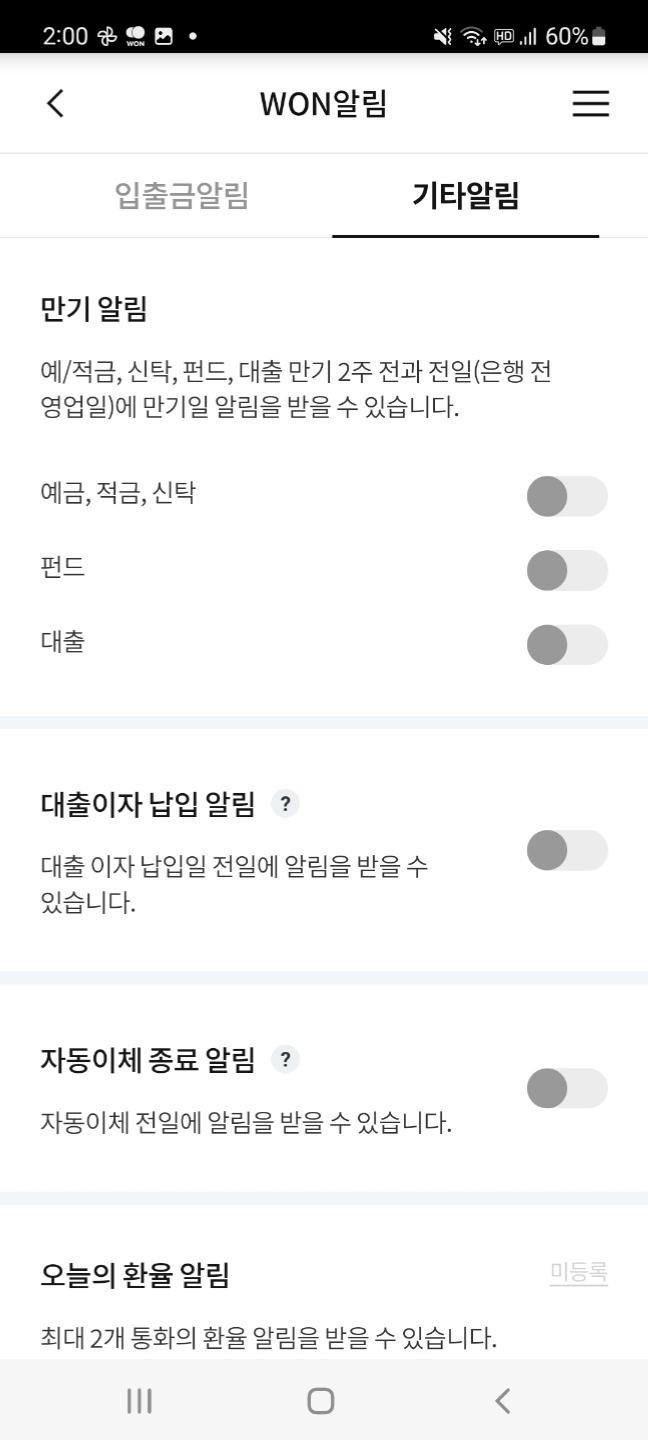
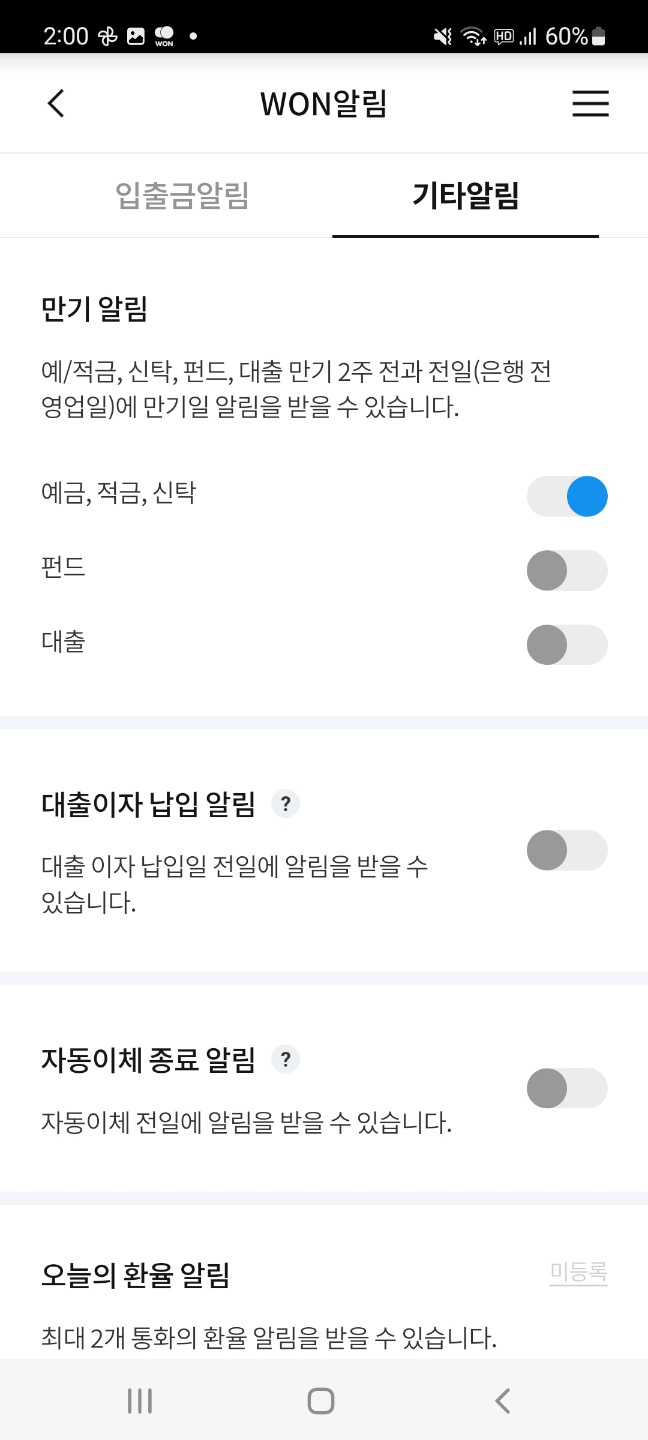
221205
수정

diff --git a/52/52/js/information.js b/52/52/js/information.js
@@ -1,4 +1,4 @@
-const pageNum = 12;
+const pageNum = 11;
 const pageName = "52";
 for (j = 1; j <= pageNum; j++) {
     contentImage.push(`../${pageName}/image/${j}.png`);
@@ -6,18 +6,18 @@ for (j = 1; j <= pageNum; j++) {
     audioArray.push(audio);
 }
 
-const page1 = "우리WON뱅킹의 통장 사본 조회 서비스를 이용해 보도록 하겠습니다. 먼저, 전체 메뉴를 확인하기 위해 우측 하단의 전체를 눌러 줍니다.";
-const page2 = "계좌 조회를 눌러 줍니다.";
-const page3 = "통장사본 조회를 눌러 줍니다.";
-const page4 = "저축예금 부분을 눌러 더 자세하게 알아볼게요.";
-const page5 = "통장사본 저장을 눌러 줍니다.";
-const page6 = "통장사본 저장 페이지입니다. 한 번 눌러 넘어가 줄게요.";
-const page7 = "확인을 누르면 통장 사본이 저장됩니다. 모두 고생하셨습니다.";
-const page8 = "확인을 누르면 통장 사본이 저장됩니다. 모두 고생하셨습니다.";
-const page9 = "확인을 누르면 통장 사본이 저장됩니다. 모두 고생하셨습니다.";
-const page10 = "확인을 누르면 통장 사본이 저장됩니다. 모두 고생하셨습니다.";
-const page11 = "확인을 누르면 통장 사본이 저장됩니다. 모두 고생하셨습니다.";
-const page12 = "확인을 누르면 통장 사본이 저장됩니다. 모두 고생하셨습니다.";
+const page1 = "우리WON뱅킹의 원터치 알림 서비스를 이용해 보도록 하겠습니다. 먼저, 우리WON뱅킹 앱을 눌러 실행합니다.";
+const page2 = "전체 메뉴를 확인하기 위해 우측 하단의 전체를 눌러 줍니다.";
+const page3 = "부가서비스를 눌러 줍니다.";
+const page4 = "통지서비스를 눌러 줍니다.";
+const page5 = "WON알림을 눌러 줍니다..";
+const page6 = "이용 약관 옆 버튼을 눌러 WON 알림 이용에 동의합니다.";
+const page7 = "동의 후 알림 받기를 눌러 줍니다.";
+const page8 = "기타 알림을 눌러 줍니다.";
+const page9 = "만기 알림의 예금, 적금, 신탁 옆 버튼을 눌러 알림을 켜짐으로 돌려 줍니다.";
+const page10 = "대출이자 납입 옆 버튼을 눌러 알림을 켜짐으로 돌려 줍니다. ";
+const page11 = "원터치 알림이 설정되었습니다. 모두 고생하셨습니다.";
+
 
 pageDescArray.push(
     page1,
@@ -30,8 +30,7 @@ pageDescArray.push(
     page8,
     page9,
     page10,
-    page11,
-    page12
+    page11
 );
 
 
@@ -86,7 +85,19 @@ const coordinate7 = {
     startRateX: 0.1527777777777778, startRateY: 0.53125, endRateX: 0.8444444444444444, endRateY: 0.6015625
 };
 
+const coordinate8 = {
+    startRateX: 0.1527777777777778, startRateY: 0.53125, endRateX: 0.8444444444444444, endRateY: 0.6015625
+};
+const coordinate9 = {
+    startRateX: 0.1527777777777778, startRateY: 0.53125, endRateX: 0.8444444444444444, endRateY: 0.6015625
+};
+const coordinate10 = {
+    startRateX: 0.1527777777777778, startRateY: 0.53125, endRateX: 0.8444444444444444, endRateY: 0.6015625
+};
 
+const coordinate11 = {
+    startRateX: 0.1527777777777778, startRateY: 0.53125, endRateX: 0.8444444444444444, endRateY: 0.6015625
+};
 
 coordinateArray.push(
     coordinate1,
@@ -100,5 +111,4 @@ coordinateArray.push(
     coordinate9,
     coordinate10,
     coordinate11,
-    coordinate12
 );

diff --git a/52/draw/change-image.js b/52/draw/change-image.js
@@ -2,8 +2,8 @@ const changeButton = document.querySelector(".change-btn");
 const imageArray = [];
 
 const codeDescription = document.querySelector(".code-area-desc");
-const pageNum = 7;
-const pageName = "51";
+const pageNum = 11;
+const pageName = "52";
 
 for (i = 1; i <= pageNum; i++) {
     imageArray.push(`../${pageName}/image/${i}.png`);
